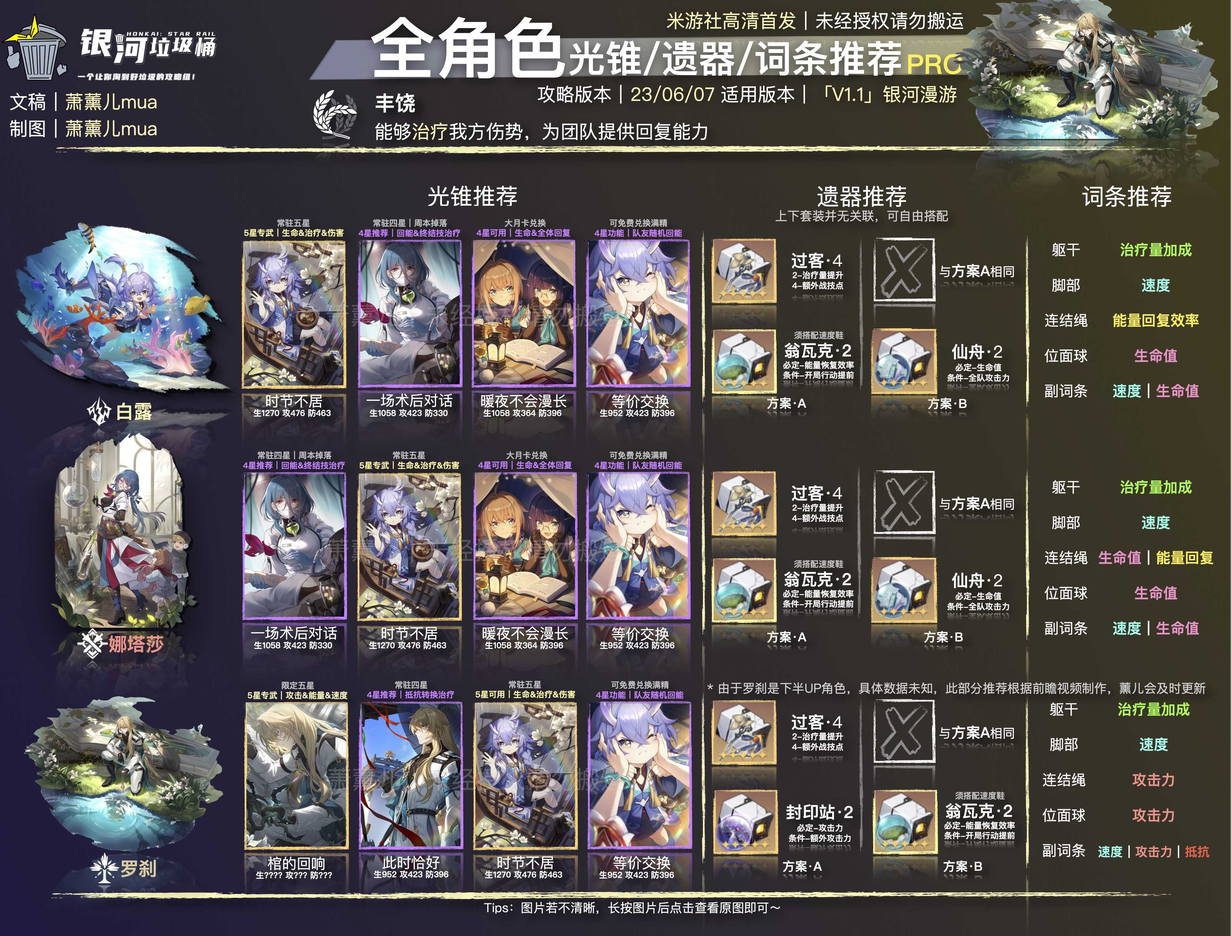
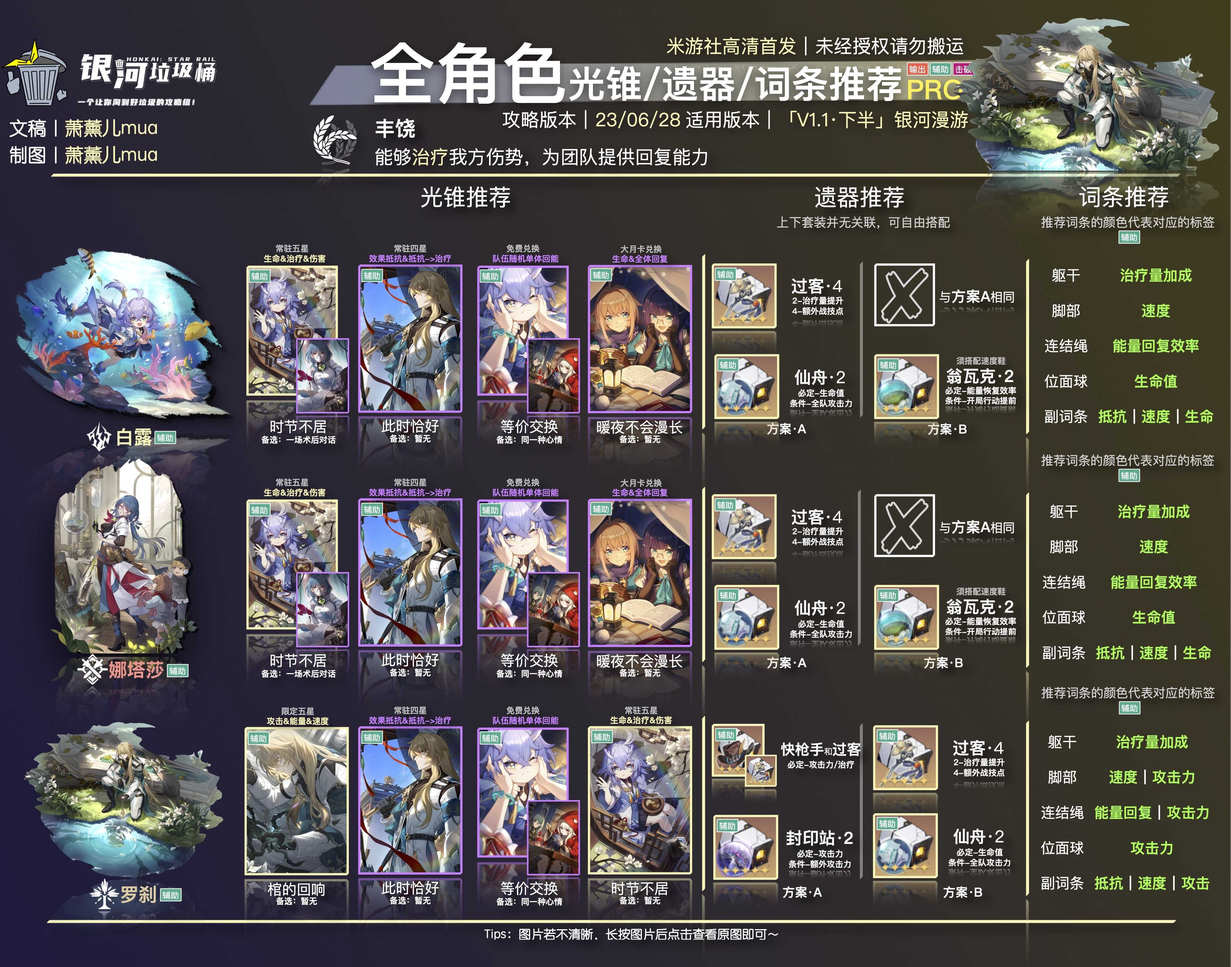
update：更新一下1.1下半版本全角色攻略

diff --git a/apps/srxx.js b/apps/srxx.js
@@ -50,7 +50,11 @@ export class srxx extends plugin {
         {
           reg: `^${rulePrefix}商店光锥推荐$`,
           fnc: 'srgz'
-        }
+        }     
+        // {
+        //   reg: `^${rulePrefix}(.*)配队$`,
+        //   fnc: 'srpd'
+        // }
       ],
     });
   }
@@ -354,12 +358,13 @@ export class srxx extends plugin {
     return false
  }
 
- async srgz(e) {
+ async srgz (e) {
   let msg = [
       segment.image(`${srrolePath}/gz/商店光锥推荐.jpg`),
   ]
   e.reply(msg)
   return true
  }
+
 
 }
